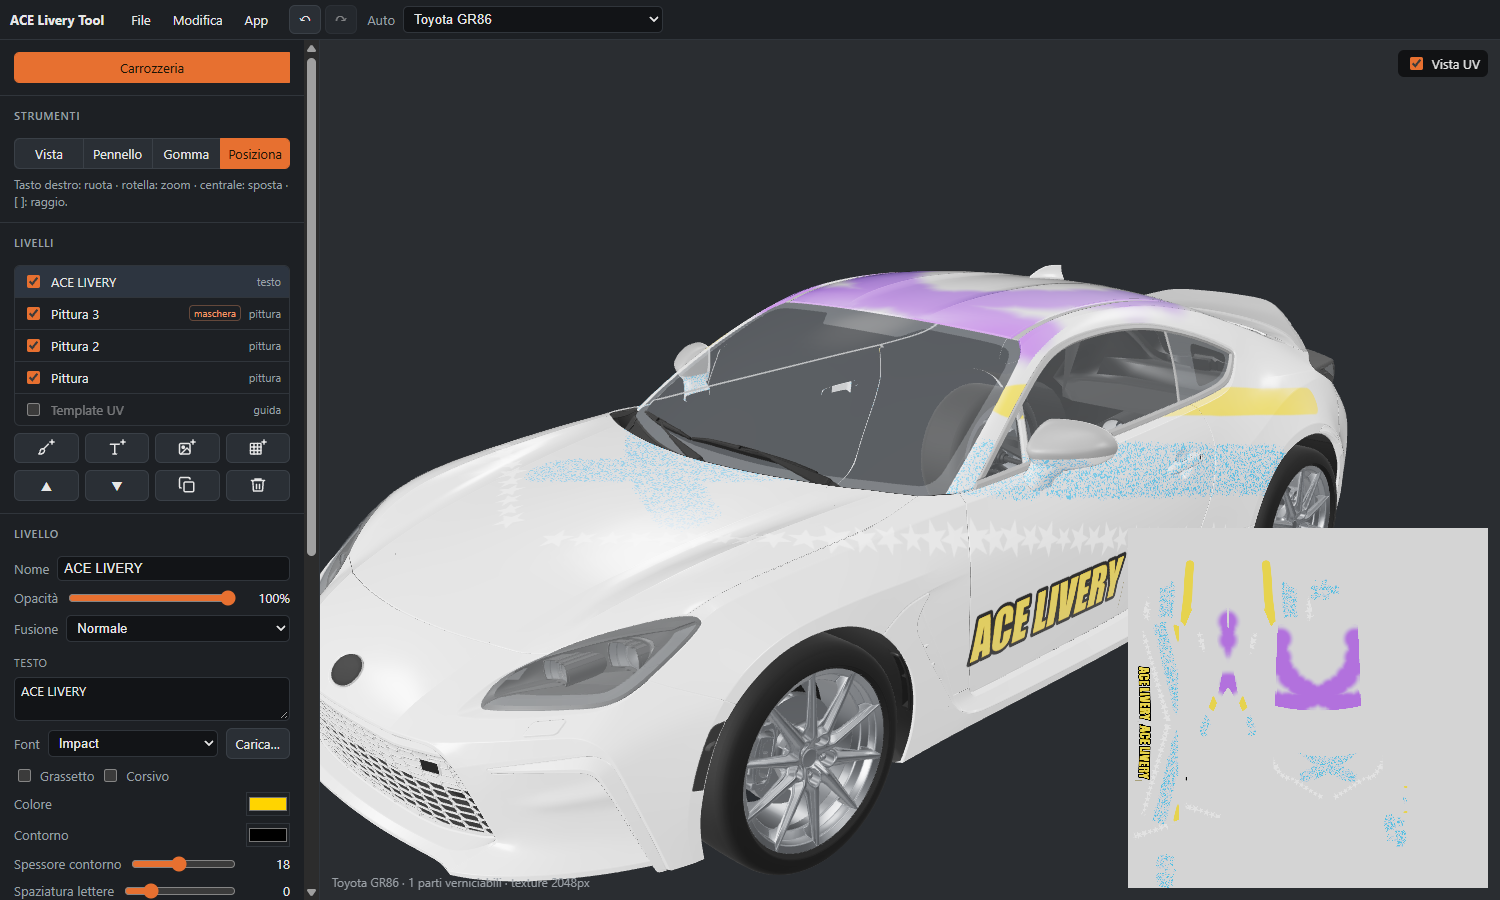
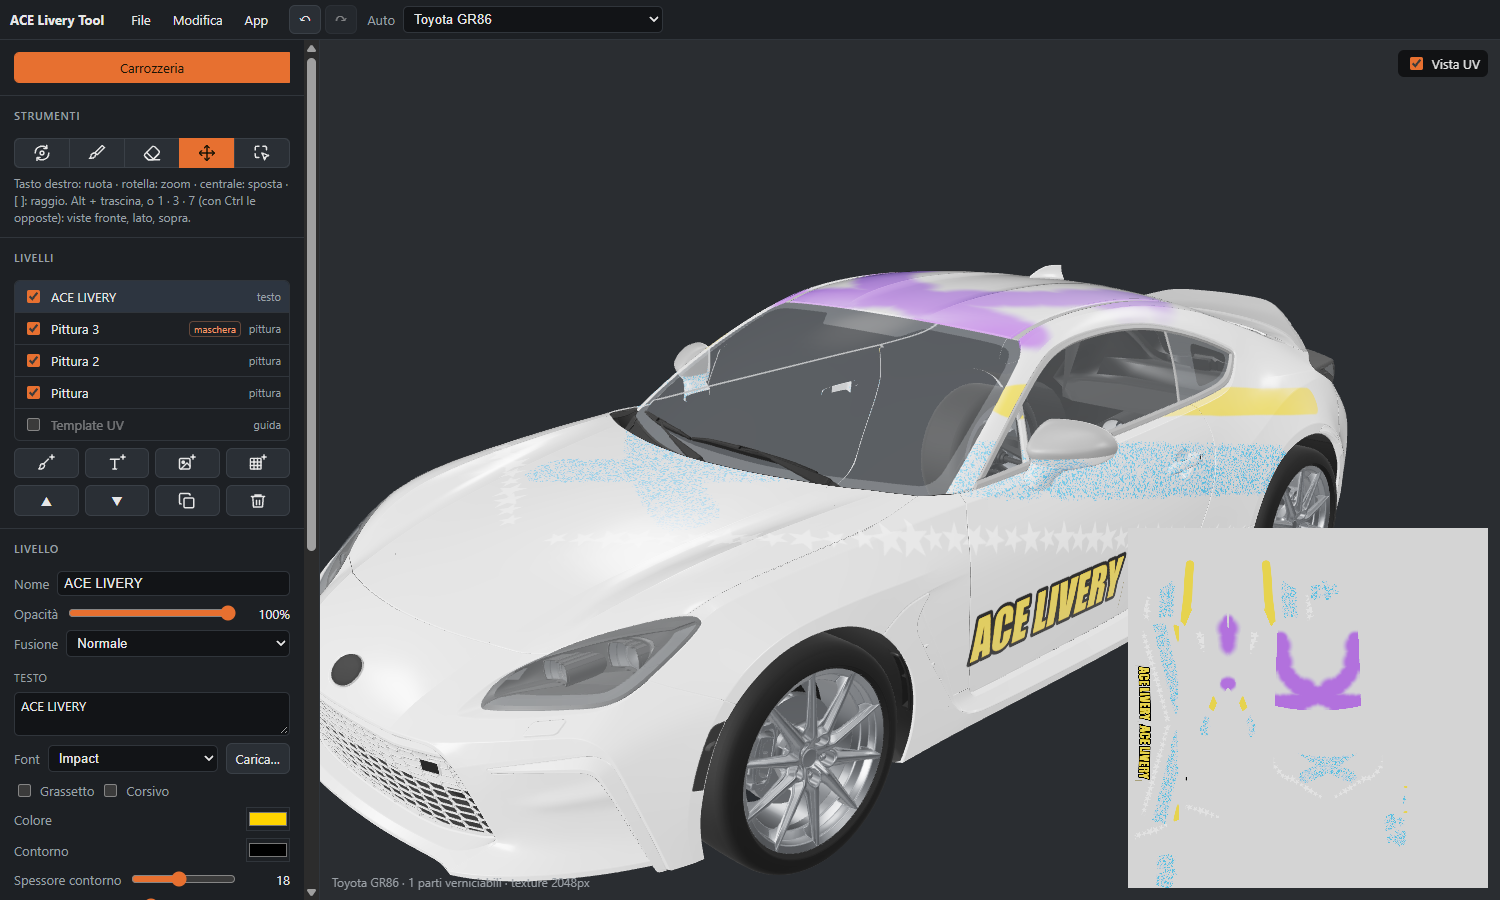
Docs for 0.2.0

diff --git a/README.it.md b/README.it.md
@@ -11,6 +11,8 @@ La guida completa è nella **[wiki](https://github.com/agastal/AceLiveryTool-Rel
 
 - Tutte le auto del gioco (71), con il loro layout UV come guida.
 - Livelli con maschere, modi di fusione e rugosità, metallo e clear coat propri.
+- Parti: un clic limita un livello al cofano, a una portiera, a un paraurti (e alla parte corrispondente
+  dall'altro lato).
 - Pennelli che lavorano in 3D (nessuna cucitura tra i pannelli): tondo, spray, timbri; simmetria sinistra/destra.
 - Immagini e testi proiettati sull'auto, anche specchiati sull'altro lato.
 - Annulla/ripeti, file di progetto (`.acelivery`); viste di fronte, lato e sopra come in Blender (1, 3, 7 o
@@ -35,7 +37,8 @@ Requisiti: Windows 10 o 11 (64 bit) e Assetto Corsa EVO installato tramite Steam
 L'app non contiene **nessuna parte del gioco**. Al primo avvio legge le auto dalla tua installazione e le tiene in
 `%LOCALAPPDATA%\ace-livery-tool\cars` (circa un minuto e 550 MB). Trova il gioco nelle librerie di Steam; se non
 ci riesce, *Scegli la cartella del gioco…* la indica a mano. Rifallo dopo un aggiornamento del gioco dall'elenco
-delle auto nella barra in alto, *Prepara di nuovo le auto dal gioco*.
+delle auto nella barra in alto, *Prepara di nuovo le auto dal gioco*. Quando una nuova versione dell'app ha
+bisogno di più informazioni dalle auto, le prepara di nuovo da sola al primo avvio.
 
 ## Usare una livrea esportata
 

diff --git a/README.md b/README.md
@@ -11,6 +11,7 @@ The full guide is in the **[wiki](https://github.com/agastal/AceLiveryTool-Relea
 
 - Every car of the game (71), with its UV layout as a guide.
 - Layers with masks, blend modes and their own roughness, metallic and clear coat.
+- Parts: a click limits a layer to the hood, a door, a bumper (and the matching part on the other side).
 - Brushes that work in 3D (no seams between panels): round, spray, stamps; left/right symmetry.
 - Images and text projected on the car, mirrored to the other side if you want.
 - Undo/redo, project files (`.acelivery`); front, side and top views as in Blender (1, 3, 7 or Alt + drag).
@@ -34,7 +35,8 @@ Requirements: Windows 10 or 11 (64-bit) and Assetto Corsa EVO installed through 
 The app ships **no part of the game**. On first start it reads the cars from your own installation and keeps
 them in `%LOCALAPPDATA%\ace-livery-tool\cars` (about a minute and 550 MB). It finds the game in your Steam
 libraries; if it does not, *Choose the game folder…* picks it by hand. Do it again after a game update from the
-car list in the top bar, *Prepare the cars again from the game*.
+car list in the top bar, *Prepare the cars again from the game*. When a new version of the app needs more from
+the cars, it prepares them again by itself at its first start.
 
 ## Using an exported livery
 

diff --git a/CHANGELOG.it.md b/CHANGELOG.it.md
@@ -1,5 +1,22 @@
 # Novità
 
+## [0.2.0] - 2026-10-16
+
+Dipingere una parte dell'auto alla volta: il cofano, una portiera, un paraurti, con un clic.
+
+### Novità
+- Strumento **Parti** (P): clicca una parte dell'auto e il livello selezionato si vede solo lì (il primo clic gli
+  crea una maschera); Maiusc+clic nasconde di nuovo una parte. **Parte intera** prende tutta la portiera, il cofano o
+  il paraurti come li muove il gioco; **Anche l'altro lato** prende la parte corrispondente dall'altro lato. La barra
+  di stato dice il nome della parte sotto il puntatore. Poi riempimento, pennello, immagini e testi di quel livello
+  restano dentro.
+- Le auto vengono preparate di nuovo da sole, una volta, quando una nuova versione dell'app ha bisogno di più
+  informazioni (questa legge le parti delle auto): circa un minuto al primo avvio dopo l'aggiornamento.
+
+### Modifiche
+- I pulsanti degli strumenti (Vista, Pennello, Gomma, Posiziona, Parti) sono icone; nomi e tasti sono nei
+  suggerimenti.
+
 ## [0.1.0] - 2026-10-16
 
 La prima versione pubblica: un editor 3D di livree per tutte le auto di Assetto Corsa EVO.

diff --git a/CHANGELOG.md b/CHANGELOG.md
@@ -1,5 +1,20 @@
 # Changelog
 
+## [0.2.0] - 2026-10-16
+
+Paint one part of the car at a time: the hood, a door, a bumper, with a click.
+
+### New
+- **Parts** tool (P): click a part of the car and the selected layer shows only there (the first click gives the
+  layer a mask); Shift+click hides a part again. **Whole part** takes the whole door, hood or bumper as the game
+  moves it; **The other side too** takes the matching part on the other side. The status line names the part under
+  the pointer. Then fill, paint, images and texts of that layer stay inside.
+- The cars are prepared again by themselves, once, when a new version of the app needs more from them (this one
+  reads the car's parts): about a minute at the first start after the update.
+
+### Changed
+- The tool buttons (View, Brush, Eraser, Place, Parts) are icons; their names and keys are in the tooltips.
+
 ## [0.1.0] - 2026-10-16
 
 The first public version: a 3D livery editor for every car of Assetto Corsa EVO.
